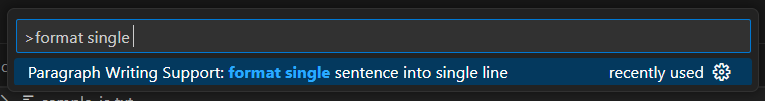
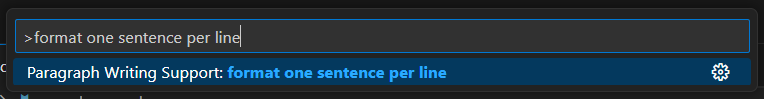
fix: 1.0.0 - one sentence per line

Changed region(s): [[0.0, 0.5758, 0.9935, 0.8788], [0.0, 0.1818, 0.9935, 0.5455], [0.0, 0.9394, 0.2107, 1.0]]

diff --git a/src/extension.ts b/src/extension.ts
@@ -5,7 +5,7 @@ import formatSingleSentenceIntoSingleLine from './command/formatSingleSentenceIn
 export function activate(context: vscode.ExtensionContext) {
   const disposables = [
     vscode.commands.registerCommand(
-      "paragraph-writing-support.format-single-sentence-into-single-line",
+      "paragraph-writing-support.format-one-sentence-per-line",
       formatSingleSentenceIntoSingleLine
     ),
   ];

diff --git a/README.md b/README.md
@@ -4,7 +4,6 @@ This extension enhances the functionality of "[Visual Paragraph Writing](https:/
 
 このエクステンションは「[Visual Paragraph Writing](https://marketplace.visualstudio.com/items?itemName=fukuchiharuki.visual-paragraph-writing)」の仕様に従ってテキストをフォーマットするコマンドを提供します。
 
-
 ## Features
 
 before:
@@ -13,10 +12,10 @@ after:
 ![Text after](images/features-text-after.png)
 
 <!-- en: -->
-1. formt single sentence into single line
+1. formt one sentence per line
 
 <!-- ja: -->
-1. 一文を一行に整形します
+1. 一行につき一文に整形します
 
 ## Usage
 
@@ -26,14 +25,14 @@ after:
 1. Open a text file in VS Code.
 1. Select the text you want to format.
 1. Open the command palette (`Ctrl+Shift+P` or `Cmd+Shift+P` on macOS).
-1. Type and select `format single sentence into single line`.
+1. Type and select `format one sentence per line`.
 1. The selected text will be formatted according to the specifications of [Visual Paragraph Writing](https://marketplace.visualstudio.com/items?itemName=fukuchiharuki.visual-paragraph-writing).
 
 <!-- ja: -->
 1. VS Codeでテキストファイルを開きます。
 1. フォーマットしたいテキストを選択します。
 1. コマンドパレットを開きます（`Ctrl+Shift+P` または macOSでは `Cmd+Shift+P`）。
-1. `format single sentence into single line`と入力して選択します。
+1. `format one sentence per line`と入力して選択します。
 1. 選択したテキストが[Visual Paragraph Writing](https://marketplace.visualstudio.com/items?itemName=fukuchiharuki.visual-paragraph-writing)の仕様に従ってフォーマットされます。
 
 <!--

diff --git a/CHANGELOG.md b/CHANGELOG.md
@@ -6,11 +6,11 @@ All notable changes to the "Paragraph Writing Support" extension will be documen
 Check [Keep a Changelog](http://keepachangelog.com/) for recommendations on how to structure this file.
 -->
 
-## [Unreleased]
+## [1.0.0] - 2024-07-25
 
 ### Added
 
-- A command to format a single sentence into a single line
+- A command to format one sentence per line
 
 ### Removed
 
